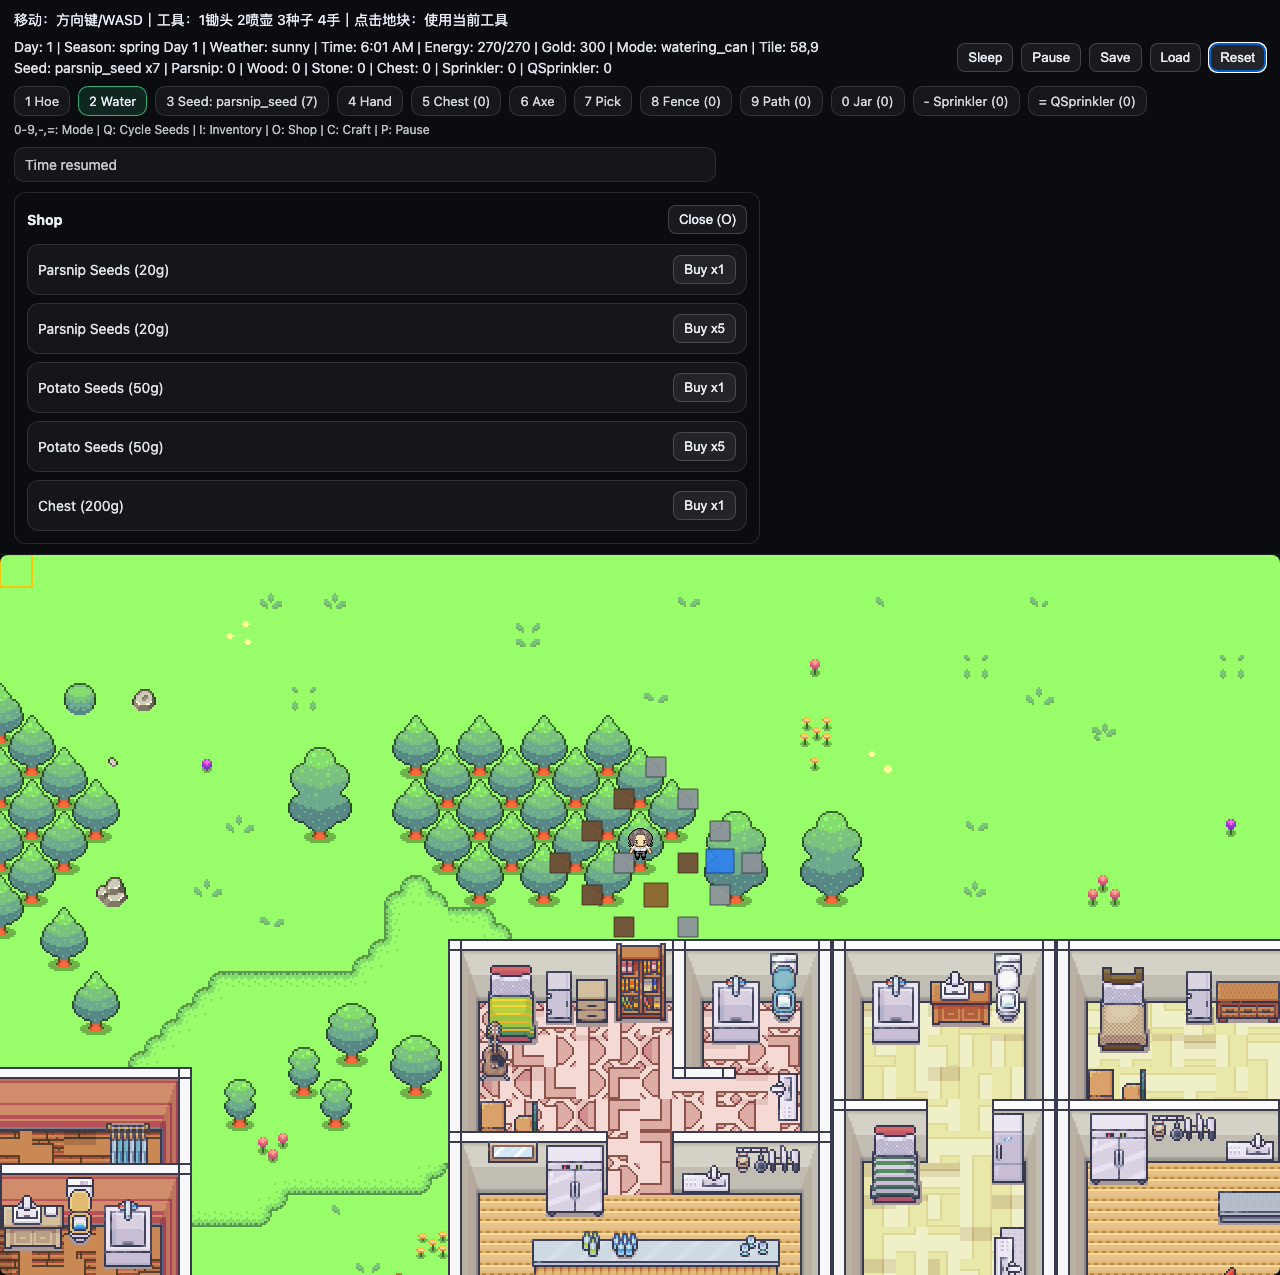
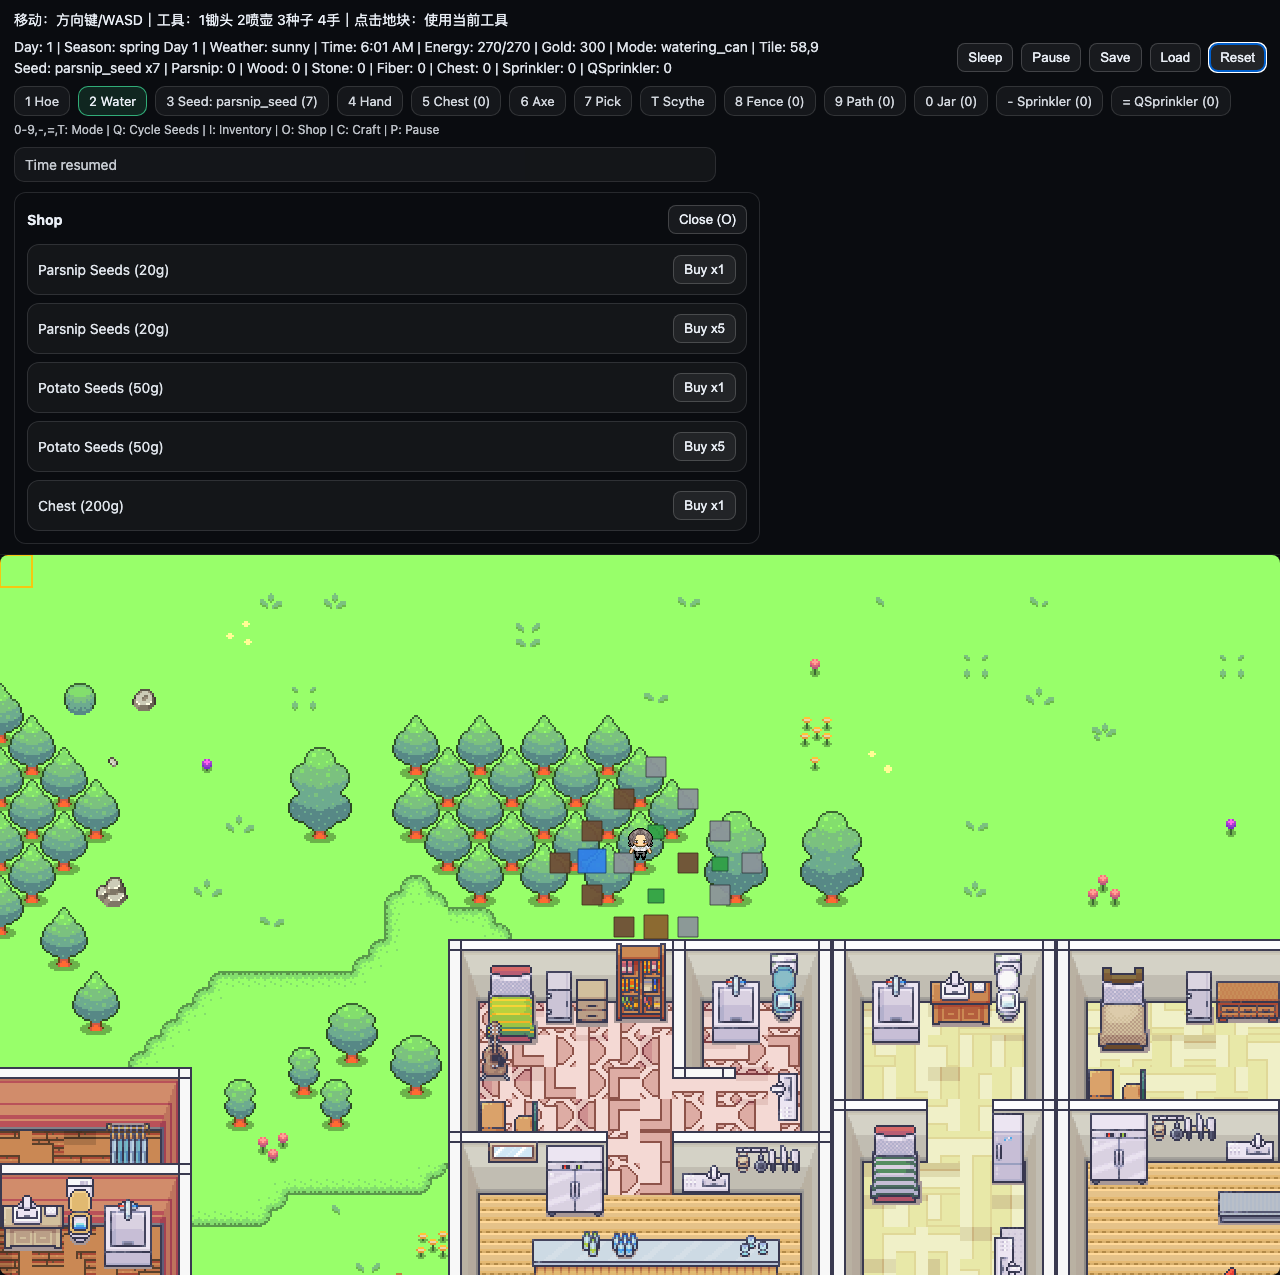
feat: add weeds + scythe for fiber

diff --git a/src/phaser/scenes/WorldScene.ts b/src/phaser/scenes/WorldScene.ts
@@ -290,6 +290,7 @@ export class WorldScene extends Phaser.Scene {
       if (ev.key === "0") this.setMode("preserves_jar" as any);
       if (ev.key === "-" || ev.key === "_") this.setMode("sprinkler" as any);
       if (ev.key === "=" || ev.key === "+") this.setMode("quality_sprinkler" as any);
+      if (ev.key.toLowerCase() === "t") this.setMode("scythe");
       if (ev.key.toLowerCase() === "q") this.cycleSeed();
       if (ev.key.toLowerCase() === "p") this.setPaused(!this.timePaused);
     });
@@ -367,6 +368,15 @@ export class WorldScene extends Phaser.Scene {
         },
         getObject: (tx: number, ty: number) => {
           return this.gameState.getObject(tx, ty);
+        },
+        spawnWeedAt: (tx: number, ty: number) => {
+          const ok = this.gameState.placeWeed(tx, ty);
+          if (ok) {
+            this.redrawAllObjects();
+            this.gameState.saveToStorage();
+          }
+          this.syncWindowState();
+          return ok;
         },
         setPaused: (paused: boolean) => {
           this.setPaused(paused);
@@ -675,6 +685,7 @@ export class WorldScene extends Phaser.Scene {
       cranberry_jar: this.gameState?.countItem("cranberry_jar" as any) ?? 0,
       wood: this.gameState?.countItem("wood" as any) ?? 0,
       stone: this.gameState?.countItem("stone" as any) ?? 0,
+      fiber: this.gameState?.countItem("fiber" as any) ?? 0,
       fence: this.gameState?.countItem("fence" as any) ?? 0,
       path: this.gameState?.countItem("path" as any) ?? 0,
       sprinkler: this.gameState?.countItem("sprinkler" as any) ?? 0,
@@ -873,6 +884,28 @@ export class WorldScene extends Phaser.Scene {
 
     placeMany("wood", 6);
     placeMany("stone", 6);
+
+    // Add a few weeds for scythe discovery.
+    const weedCandidates = [
+      { tx: base.tx + 1, ty: base.ty },
+      { tx: base.tx - 1, ty: base.ty },
+      { tx: base.tx, ty: base.ty + 1 },
+      { tx: base.tx, ty: base.ty - 1 },
+      { tx: base.tx + 2, ty: base.ty },
+      { tx: base.tx - 2, ty: base.ty },
+      { tx: base.tx, ty: base.ty + 2 },
+      { tx: base.tx, ty: base.ty - 2 }
+    ];
+    let weedsPlaced = 0;
+    for (const c of weedCandidates) {
+      if (weedsPlaced >= 3) break;
+      if (c.tx < 0 || c.ty < 0 || c.tx >= this.map.width || c.ty >= this.map.height) continue;
+      const blocked = this.collisionsLayer.getTileAt(c.tx, c.ty, true);
+      const isBlocked = Boolean(blocked?.properties?.collide);
+      if (isBlocked) continue;
+      if (c.tx === base.tx && c.ty === base.ty) continue;
+      if (this.gameState.placeWeed(c.tx, c.ty)) weedsPlaced += 1;
+    }
   }
 
   private ensureShippingBin(): void {
@@ -957,6 +990,7 @@ export class WorldScene extends Phaser.Scene {
     else if (this.mode === "sprinkler") ok = this.gameState.placeSimpleObject(tx, ty, "sprinkler");
     else if (this.mode === "quality_sprinkler") ok = this.gameState.placeSimpleObject(tx, ty, "quality_sprinkler");
     else if (this.mode === "preserves_jar") ok = this.gameState.placePreservesJar(tx, ty);
+    else if ((this.mode as ToolId) === "scythe") ok = this.gameState.scythe(tx, ty);
     else if ((this.mode as ToolId) === "axe") {
       const obj = this.gameState.getObject(tx, ty);
       if (obj?.id === "chest") {
@@ -1069,6 +1103,15 @@ export class WorldScene extends Phaser.Scene {
         this.objectLayer.add(rect);
         this.objectVisuals.set(`${o.tx},${o.ty}`, rect);
         this.addObjectBody(o.tx, o.ty, TILE_SIZE - 12, TILE_SIZE - 12, 0, 0);
+      } else if (o.obj.id === "weed") {
+        const x = o.tx * this.map.tileWidth;
+        const y = o.ty * this.map.tileHeight;
+        const rect = this.add.rectangle(x + 8, y + 14, TILE_SIZE - 16, TILE_SIZE - 18, 0x2f9e44, 0.92).setOrigin(0);
+        rect.setStrokeStyle(1, 0x1b4332, 0.75);
+        rect.setDepth(ENTITY_DEPTH_BASE + y + 2);
+        this.objectLayer.add(rect);
+        this.objectVisuals.set(`${o.tx},${o.ty}`, rect);
+        this.addObjectBody(o.tx, o.ty, TILE_SIZE - 18, TILE_SIZE - 18, 9, 12);
       } else if (o.obj.id === "fence") {
         const x = o.tx * this.map.tileWidth;
         const y = o.ty * this.map.tileHeight;

diff --git a/e2e/game.spec.ts b/e2e/game.spec.ts
@@ -357,8 +357,16 @@ test("sprinkler: waters adjacent tilled tiles at day start (sunny)", async ({ pa
     const crafted = s.api.craft("sprinkler", 1);
     if (!crafted.ok) return { ok: false, step: "craft", crafted, inv: s.inventory };
 
-    // Hoe the 4 neighbors but do NOT water them manually.
-    for (const p of adjacent) s.api.useAt(p.tx, p.ty, "hoe");
+    // Find one hoeable neighbor (objects/collisions may block some tiles).
+    let target: { tx: number; ty: number } | null = null;
+    for (const p of adjacent) {
+      const ok = s.api.useAt(p.tx, p.ty, "hoe");
+      if (ok) {
+        target = p;
+        break;
+      }
+    }
+    if (!target) return { ok: false, step: "hoe" };
 
     const placed = s.api.useAt(tx, ty, "sprinkler");
     if (!placed) return { ok: false, step: "place" };
@@ -370,14 +378,54 @@ test("sprinkler: waters adjacent tilled tiles at day start (sunny)", async ({ pa
       if (s.weather === "sunny") break;
     }
 
-    const after = adjacent.map((p) => ({ ...p, tile: s.api.getTile(p.tx, p.ty) }));
+    const after = { tx: target.tx, ty: target.ty, tile: s.api.getTile(target.tx, target.ty) };
     return { ok: true, weather: s.weather, daysSlept, after };
   });
 
   expect(res.ok).toBeTruthy();
   expect((res as any).weather).toBe("sunny");
-  for (const t of (res as any).after) {
-    expect(t.tile.tilled).toBeTruthy();
-    expect(t.tile.watered).toBeTruthy();
-  }
+  expect((res as any).after.tile.tilled).toBeTruthy();
+  expect((res as any).after.tile.watered).toBeTruthy();
+});
+
+test("scythe: clears weeds and gives fiber", async ({ page }) => {
+  await page.goto("/");
+  await page.waitForSelector("#game-container canvas");
+  await page.waitForFunction(() => (window as any).__cokeFamer?.ready === true);
+  await page.locator("#btn-reset").click();
+
+  const res = await page.evaluate(() => {
+    const s = (window as any).__cokeFamer;
+    const { tx, ty } = s.player;
+    const candidates = [
+      { tx: tx + 1, ty },
+      { tx: tx - 1, ty },
+      { tx, ty: ty + 1 },
+      { tx, ty: ty - 1 }
+    ];
+
+    let pos: { tx: number; ty: number } | null = null;
+    for (const c of candidates) {
+      if (s.api.spawnWeedAt(c.tx, c.ty)) {
+        pos = c;
+        break;
+      }
+    }
+    if (!pos) {
+      if (s.api.spawnWeedAt(tx, ty)) pos = { tx, ty };
+    }
+    if (!pos) return { ok: false, step: "spawn_failed" };
+
+    const before = { fiber: s.inventory.fiber ?? 0, obj: s.api.getObject(pos.tx, pos.ty) };
+    const acted = s.api.useAt(pos.tx, pos.ty, "scythe");
+    const after = { fiber: s.inventory.fiber ?? 0, obj: s.api.getObject(pos.tx, pos.ty) };
+
+    return { ok: true, before, acted, after };
+  });
+
+  expect(res.ok).toBeTruthy();
+  expect((res as any).before.obj?.id).toBe("weed");
+  expect((res as any).acted).toBeTruthy();
+  expect((res as any).after.obj).toBeNull();
+  expect((res as any).after.fiber).toBeGreaterThan((res as any).before.fiber);
 });

diff --git a/src/ui/hud.ts b/src/ui/hud.ts
@@ -45,6 +45,7 @@ export function mountHud(containerId: string): void {
     `Parsnip: <span id="hud-parsnip">0</span> | ` +
     `Wood: <span id="hud-wood">0</span> | ` +
     `Stone: <span id="hud-stone">0</span> | ` +
+    `Fiber: <span id="hud-fiber">0</span> | ` +
     `Chest: <span id="hud-chest">0</span> | ` +
     `Sprinkler: <span id="hud-sprinkler">0</span> | ` +
     `QSprinkler: <span id="hud-quality-sprinkler">0</span>`;
@@ -64,7 +65,7 @@ export function mountHud(containerId: string): void {
   host.appendChild(hotbar);
 
   const subHint = el("div", "subhint");
-  subHint.textContent = "0-9,-,=: Mode | Q: Cycle Seeds | I: Inventory | O: Shop | C: Craft | P: Pause";
+  subHint.textContent = "0-9,-,=,T: Mode | Q: Cycle Seeds | I: Inventory | O: Shop | C: Craft | P: Pause";
   host.appendChild(subHint);
 
   const btnSleep = document.getElementById("btn-sleep") as HTMLButtonElement;
@@ -96,6 +97,7 @@ export function mountHud(containerId: string): void {
   const hudParsnip = document.getElementById("hud-parsnip")!;
   const hudWood = document.getElementById("hud-wood")!;
   const hudStone = document.getElementById("hud-stone")!;
+  const hudFiber = document.getElementById("hud-fiber")!;
   const hudChest = document.getElementById("hud-chest")!;
   const hudSprinkler = document.getElementById("hud-sprinkler")!;
   const hudQualitySprinkler = document.getElementById("hud-quality-sprinkler")!;
@@ -203,6 +205,7 @@ export function mountHud(containerId: string): void {
       { key: "chest", label: `5 Chest (${inventory.chest ?? 0})` },
       { key: "axe", label: "6 Axe" },
       { key: "pickaxe", label: "7 Pick" },
+      { key: "scythe", label: "T Scythe" },
       { key: "fence", label: `8 Fence (${inventory.fence ?? 0})` },
       { key: "path", label: `9 Path (${inventory.path ?? 0})` },
       { key: "preserves_jar", label: `0 Jar (${inventory.preserves_jar ?? 0})` },
@@ -233,6 +236,7 @@ export function mountHud(containerId: string): void {
       hudParsnip.textContent = String(s.inventory.parsnip ?? 0);
       hudWood.textContent = String(s.inventory.wood ?? 0);
       hudStone.textContent = String(s.inventory.stone ?? 0);
+      hudFiber.textContent = String(s.inventory.fiber ?? 0);
       hudChest.textContent = String(s.inventory.chest ?? 0);
       hudSprinkler.textContent = String(s.inventory.sprinkler ?? 0);
       hudQualitySprinkler.textContent = String(s.inventory.quality_sprinkler ?? 0);

diff --git a/src/simulation/FarmGame.ts b/src/simulation/FarmGame.ts
@@ -25,8 +25,10 @@ const START_GOLD = 500;
 const CHEST_SIZE = 24;
 const WOOD_NODE_HP = 3;
 const STONE_NODE_HP = 3;
+const WEED_NODE_HP = 1;
 const WOOD_NODE_DROP = 5;
 const STONE_NODE_DROP = 5;
+const WEED_NODE_DROP = 3;
 const MINUTES_PER_DAY = 24 * 60;
 const PRESERVES_MINUTES = 180;
 const SHIPPING_BIN_SIZE = 24;
@@ -36,6 +38,7 @@ const ACTION_MINUTES = {
   water: 10,
   plant: 10,
   harvest: 5,
+  scythe: 5,
   chop: 10,
   mine: 10
 } as const;
@@ -45,6 +48,7 @@ const ACTION_ENERGY = {
   water: 2,
   plant: 2,
   harvest: 0,
+  scythe: 0,
   chop: 4,
   mine: 4
 } as const;
@@ -342,6 +346,16 @@ export class FarmGame {
     if (t.crop || t.tilled || t.watered) return false;
     const nodeHp = hp ?? (kind === "wood" ? WOOD_NODE_HP : STONE_NODE_HP);
     this.objects.set(key, { id: kind, hp: Math.max(1, nodeHp) });
+    return true;
+  }
+
+  placeWeed(tx: number, ty: number, hp?: number): boolean {
+    const key = tileKey(tx, ty);
+    if (this.objects.has(key)) return false;
+    const t = this.getTile(tx, ty);
+    if (t.crop || t.tilled || t.watered) return false;
+    const nodeHp = hp ?? WEED_NODE_HP;
+    this.objects.set(key, { id: "weed", hp: Math.max(1, nodeHp) });
     return true;
   }
 
@@ -802,6 +816,19 @@ export class FarmGame {
       this.addItem("stone", STONE_NODE_DROP);
     }
     this.spend("mine");
+    return true;
+  }
+
+  scythe(tx: number, ty: number): boolean {
+    const key = tileKey(tx, ty);
+    const obj = this.objects.get(key);
+    if (!obj || obj.id !== "weed") return false;
+    obj.hp -= 1;
+    if (obj.hp <= 0) {
+      this.objects.delete(key);
+      this.addItem("fiber", WEED_NODE_DROP);
+    }
+    this.spend("scythe");
     return true;
   }
 

diff --git a/src/content/items.ts b/src/content/items.ts
@@ -13,6 +13,7 @@ export type ItemId =
   | "cranberry_jar"
   | "wood"
   | "stone"
+  | "fiber"
   | "fence"
   | "path"
   | "sprinkler"
@@ -43,6 +44,7 @@ export const ITEMS: Record<ItemId, ItemDef> = {
   cranberry_jar: { id: "cranberry_jar", name: "Cranberry Jam", maxStack: 999, buyPrice: null, sellPrice: 180 },
   wood: { id: "wood", name: "Wood", maxStack: 999, buyPrice: null, sellPrice: 2 },
   stone: { id: "stone", name: "Stone", maxStack: 999, buyPrice: null, sellPrice: 2 },
+  fiber: { id: "fiber", name: "Fiber", maxStack: 999, buyPrice: null, sellPrice: 1 },
   fence: { id: "fence", name: "Fence", maxStack: 999, buyPrice: null, sellPrice: 1 },
   path: { id: "path", name: "Path", maxStack: 999, buyPrice: null, sellPrice: 1 },
   sprinkler: { id: "sprinkler", name: "Sprinkler", maxStack: 999, buyPrice: null, sellPrice: 25 },

diff --git a/src/simulation/types.ts b/src/simulation/types.ts
@@ -1,7 +1,7 @@
 import type { CropId } from "../content/crops";
 import type { ItemId } from "../content/items";
 
-export type ToolId = "hoe" | "watering_can" | "axe" | "pickaxe" | "hand";
+export type ToolId = "hoe" | "watering_can" | "axe" | "pickaxe" | "scythe" | "hand";
 export type ActionId = ToolId | ItemId;
 
 export type TileKey = `${number},${number}`;
@@ -28,6 +28,7 @@ export type PlacedObjectId =
   | "shipping_bin"
   | "wood"
   | "stone"
+  | "weed"
   | "fence"
   | "path"
   | "sprinkler"
@@ -45,7 +46,7 @@ export type ShippingBinState = {
 };
 
 export type ResourceState = {
-  id: "wood" | "stone";
+  id: "wood" | "stone" | "weed";
   hp: number;
 };
 

diff --git a/src/types/global.d.ts b/src/types/global.d.ts
@@ -34,6 +34,7 @@ declare global {
         setMode: (mode: string) => void;
         getTile: (tx: number, ty: number) => { tilled: boolean; watered: boolean; crop: unknown };
         getObject: (tx: number, ty: number) => { id: string } | null;
+        spawnWeedAt: (tx: number, ty: number) => boolean;
         setPaused: (paused: boolean) => void;
         invPickup: (index: number) => { itemId: string; qty: number } | null;
         invSplitHalf: (index: number) => { itemId: string; qty: number } | null;

diff --git a/docs/玩法说明.md b/docs/玩法说明.md
@@ -24,6 +24,7 @@
 7) 采集资源：用斧头/镐子砍木头/挖石头，获得 `wood` / `stone`
 8) 出货：把物品放进 Shipping Bin，睡觉时自动卖出获得金币
 9) 自动浇水：制作并放置洒水器（Sprinkler），睡觉后会在新的一天开始时自动浇水周围耕地
+10) 清理杂草：用镰刀清理 `weed` 获得 `fiber`
 
 ---
 
@@ -47,6 +48,7 @@
 - `0`：罐子（Preserves Jar，放置加工罐子）
 - `-`：洒水器（Sprinkler，放置基础洒水器）
 - `=`：高级洒水器（Quality Sprinkler，放置 8 格洒水器）
+- `T`：镰刀（Scythe，清理杂草 weed 获得 fiber）
 - `Q`：循环切换“当前选中”的种子（只会在你背包里有对应种子时才会切到）
 - `C`：制作（Craft，打开制作面板）
 
@@ -209,7 +211,22 @@
 
 ![Shipping](./screenshots/10-shipping.png)
 
-### 2.12 采集资源（wood / stone）
+### 2.12 杂草与镰刀（weed / fiber）
+
+说明：
+
+- 地图上会出现一些绿色的 `weed`（杂草，占位方块）
+- 用镰刀清理杂草，会掉落 `fiber`（纤维），进入背包
+
+操作：
+
+- 按 `T` 切到 Scythe，对着杂草所在格子点一下：会推进时间；杂草消失并获得 `fiber`
+
+示意图（杂草 + Scythe 模式）：
+
+![Scythe](./screenshots/12-scythe.png)
+
+### 2.13 采集资源（wood / stone）
 
 说明：
 
@@ -225,7 +242,7 @@
 
 ![Gather](./screenshots/06-gather.png)
 
-### 2.13 睡觉/过天
+### 2.14 睡觉/过天
 
 - 点击 HUD 的 `Sleep`：推进到下一天
   - 会触发作物生长结算
